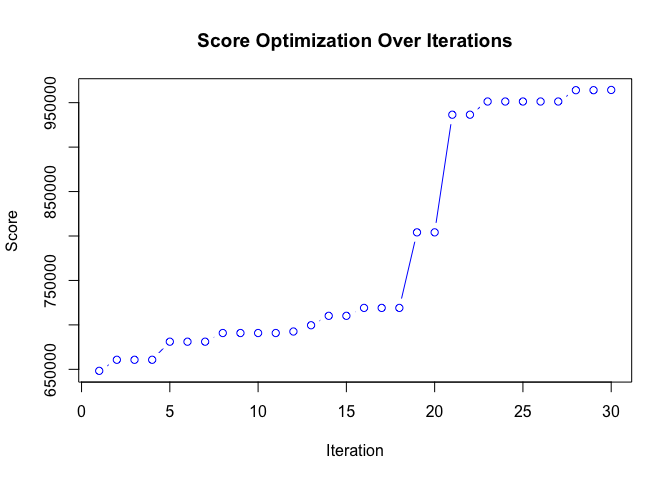
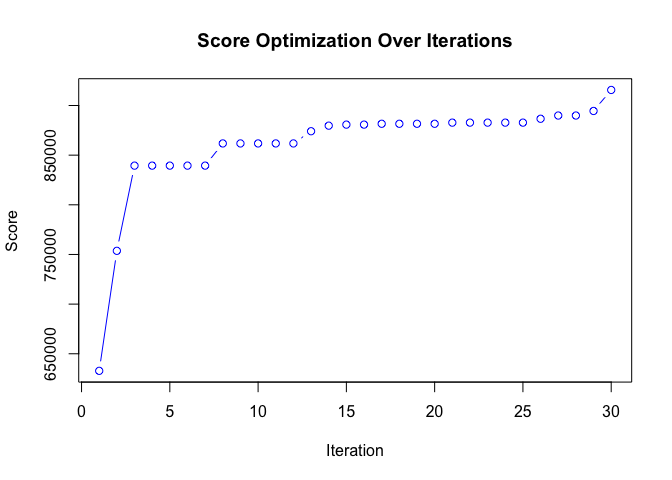
README update

diff --git a/README.md b/README.md
@@ -52,11 +52,35 @@ To install the latest version of the package:
 ``` r
 options(repos = c(CRAN = "https://cloud.r-project.org"))
 install.packages("devtools")
-#> Error in install.packages : Updating loaded packages
+#> 
+#> The downloaded binary packages are in
+#>  /var/folders/j2/0nyw78hx65ld4h4zpmyv3r_40000gn/T//RtmpLOm6qv/downloaded_packages
 library("devtools")
+#> Loading required package: usethis
 devtools::install_github("yunyicheng/TRexDAD", build_vignettes = TRUE)
-#> Skipping install of 'TRexDAD' from a github remote, the SHA1 (4e5b1de4) has not changed since last install.
-#>   Use `force = TRUE` to force installation
+#> Downloading GitHub repo yunyicheng/TRexDAD@HEAD
+#> These packages have more recent versions available.
+#> It is recommended to update all of them.
+#> Which would you like to update?
+#> 
+#> 1: All                               
+#> 2: CRAN packages only                
+#> 3: None                              
+#> 4: rlang     (1.1.1  -> 1.1.2) [CRAN]
+#> 5: lifecycle (1.0.3  -> 1.0.4) [CRAN]
+#> 6: stringi   (1.7.12 -> 1.8.1) [CRAN]
+#> 
+#> ── R CMD build ──────────────────────────────────────────────────────────────────────────────────────────────
+#>      checking for file ‘/private/var/folders/j2/0nyw78hx65ld4h4zpmyv3r_40000gn/T/RtmpLOm6qv/remotesad567db383af/yunyicheng-TRexDAD-5afd3b1/DESCRIPTION’ ...  ✔  checking for file ‘/private/var/folders/j2/0nyw78hx65ld4h4zpmyv3r_40000gn/T/RtmpLOm6qv/remotesad567db383af/yunyicheng-TRexDAD-5afd3b1/DESCRIPTION’
+#>   ─  preparing ‘TRexDAD’:
+#>      checking DESCRIPTION meta-information ...  ✔  checking DESCRIPTION meta-information
+#>   ─  installing the package to build vignettes
+#>      creating vignettes ...  ✔  creating vignettes (6.5s)
+#>   ─  checking for LF line-endings in source and make files and shell scripts
+#>   ─  checking for empty or unneeded directories
+#>   ─  building ‘TRexDAD_0.0.0.9000.tar.gz’
+#>      
+#> 
 library("TRexDAD")
 ```
 
@@ -142,101 +166,99 @@ execute_and_plot()
 #>  [1]   3  26  49  72  95 118 141 164 187 210 233 256 279 302 325 348 371 382
 #> [1] "Initial positions = 3, 26, 49, 72, 95, 118, 141, 164, 187, 210, 233, 256, 279, 302, 325, 348, 371, 382"
 #> [1] "Initial score = 632800"
-#> [1] "Optimized target = 120"
-#> [1] "Modified pos = 3, 26, 49, 72, 95, 120, 141, 164, 187, 210, 233, 256, 279, 302, 325, 348, 371, 382"
-#> [1] "#iteration = 1 , current score = 648300"
-#> [1] "Optimized target = 165"
-#> [1] "Modified pos = 3, 26, 49, 72, 95, 120, 141, 165, 187, 210, 233, 256, 279, 302, 325, 348, 371, 382"
-#> [1] "#iteration = 2 , current score = 660750"
-#> [1] "Optimized target = 120"
-#> [1] "Modified pos = 3, 26, 49, 72, 95, 120, 141, 165, 187, 210, 233, 256, 279, 302, 325, 348, 371, 382"
-#> [1] "#iteration = 3 , current score = 660750"
-#> [1] "Optimized target = 279"
-#> [1] "Modified pos = 3, 26, 49, 72, 95, 120, 141, 165, 187, 210, 233, 256, 279, 302, 325, 348, 371, 382"
-#> [1] "#iteration = 4 , current score = 660750"
-#> [1] "Optimized target = 364"
-#> [1] "Modified pos = 3, 26, 49, 72, 95, 120, 141, 165, 187, 210, 233, 256, 279, 302, 325, 348, 364, 382"
-#> [1] "#iteration = 5 , current score = 681100"
 #> [1] "Optimized target = 49"
-#> [1] "Modified pos = 3, 26, 49, 72, 95, 120, 141, 165, 187, 210, 233, 256, 279, 302, 325, 348, 364, 382"
-#> [1] "#iteration = 6 , current score = 681100"
-#> [1] "Optimized target = 302"
-#> [1] "Modified pos = 3, 26, 49, 72, 95, 120, 141, 165, 187, 210, 233, 256, 279, 302, 325, 348, 364, 382"
-#> [1] "#iteration = 7 , current score = 681100"
-#> [1] "Optimized target = 235"
-#> [1] "Modified pos = 3, 26, 49, 72, 95, 120, 141, 165, 187, 210, 235, 256, 279, 302, 325, 348, 364, 382"
-#> [1] "#iteration = 8 , current score = 690850"
-#> [1] "Optimized target = 325"
-#> [1] "Modified pos = 3, 26, 49, 72, 95, 120, 141, 165, 187, 210, 235, 256, 279, 302, 325, 348, 364, 382"
-#> [1] "#iteration = 9 , current score = 690850"
-#> [1] "Optimized target = 210"
-#> [1] "Modified pos = 3, 26, 49, 72, 95, 120, 141, 165, 187, 210, 235, 256, 279, 302, 325, 348, 364, 382"
-#> [1] "#iteration = 10 , current score = 690850"
-#> [1] "Optimized target = 302"
-#> [1] "Modified pos = 3, 26, 49, 72, 95, 120, 141, 165, 187, 210, 235, 256, 279, 302, 325, 348, 364, 382"
-#> [1] "#iteration = 11 , current score = 690850"
-#> [1] "Optimized target = 346"
-#> [1] "Modified pos = 3, 26, 49, 72, 95, 120, 141, 165, 187, 210, 235, 256, 279, 302, 325, 346, 364, 382"
-#> [1] "#iteration = 12 , current score = 692550"
-#> [1] "Optimized target = 169"
-#> [1] "Modified pos = 3, 26, 49, 72, 95, 120, 141, 169, 187, 210, 235, 256, 279, 302, 325, 346, 364, 382"
-#> [1] "#iteration = 13 , current score = 699600"
-#> [1] "Optimized target = 122"
-#> [1] "Modified pos = 3, 26, 49, 72, 95, 122, 141, 169, 187, 210, 235, 256, 279, 302, 325, 346, 364, 382"
-#> [1] "#iteration = 14 , current score = 710200"
-#> [1] "Optimized target = 302"
-#> [1] "Modified pos = 3, 26, 49, 72, 95, 122, 141, 169, 187, 210, 235, 256, 279, 302, 325, 346, 364, 382"
-#> [1] "#iteration = 15 , current score = 710200"
-#> [1] "Optimized target = 257"
-#> [1] "Modified pos = 3, 26, 49, 72, 95, 122, 141, 169, 187, 210, 235, 257, 279, 302, 325, 346, 364, 382"
-#> [1] "#iteration = 16 , current score = 719100"
-#> [1] "Optimized target = 302"
-#> [1] "Modified pos = 3, 26, 49, 72, 95, 122, 141, 169, 187, 210, 235, 257, 279, 302, 325, 346, 364, 382"
-#> [1] "#iteration = 17 , current score = 719100"
-#> [1] "Optimized target = 346"
-#> [1] "Modified pos = 3, 26, 49, 72, 95, 122, 141, 169, 187, 210, 235, 257, 279, 302, 325, 346, 364, 382"
-#> [1] "#iteration = 18 , current score = 719100"
+#> [1] "Modified pos = 3, 26, 49, 72, 95, 118, 141, 164, 187, 210, 233, 256, 279, 302, 325, 348, 371, 382"
+#> [1] "#iteration = 1 , current score = 632800"
+#> [1] "Optimized target = 140"
+#> [1] "Modified pos = 3, 26, 49, 72, 95, 118, 140, 164, 187, 210, 233, 256, 279, 302, 325, 348, 371, 382"
+#> [1] "#iteration = 2 , current score = 753650"
 #> [1] "Optimized target = 25"
-#> [1] "Modified pos = 3, 25, 49, 72, 95, 122, 141, 169, 187, 210, 235, 257, 279, 302, 325, 346, 364, 382"
-#> [1] "#iteration = 19 , current score = 804100"
-#> [1] "Optimized target = 346"
-#> [1] "Modified pos = 3, 25, 49, 72, 95, 122, 141, 169, 187, 210, 235, 257, 279, 302, 325, 346, 364, 382"
-#> [1] "#iteration = 20 , current score = 804100"
-#> [1] "Optimized target = 148"
-#> [1] "Modified pos = 3, 25, 49, 72, 95, 122, 148, 169, 187, 210, 235, 257, 279, 302, 325, 346, 364, 382"
-#> [1] "#iteration = 21 , current score = 936450"
-#> [1] "Optimized target = 235"
-#> [1] "Modified pos = 3, 25, 49, 72, 95, 122, 148, 169, 187, 210, 235, 257, 279, 302, 325, 346, 364, 382"
-#> [1] "#iteration = 22 , current score = 936450"
-#> [1] "Optimized target = 193"
-#> [1] "Modified pos = 3, 25, 49, 72, 95, 122, 148, 169, 193, 210, 235, 257, 279, 302, 325, 346, 364, 382"
-#> [1] "#iteration = 23 , current score = 951300"
-#> [1] "Optimized target = 257"
-#> [1] "Modified pos = 3, 25, 49, 72, 95, 122, 148, 169, 193, 210, 235, 257, 279, 302, 325, 346, 364, 382"
-#> [1] "#iteration = 24 , current score = 951300"
-#> [1] "Optimized target = 302"
-#> [1] "Modified pos = 3, 25, 49, 72, 95, 122, 148, 169, 193, 210, 235, 257, 279, 302, 325, 346, 364, 382"
-#> [1] "#iteration = 25 , current score = 951300"
-#> [1] "Optimized target = 257"
-#> [1] "Modified pos = 3, 25, 49, 72, 95, 122, 148, 169, 193, 210, 235, 257, 279, 302, 325, 346, 364, 382"
-#> [1] "#iteration = 26 , current score = 951300"
-#> [1] "Optimized target = 364"
-#> [1] "Modified pos = 3, 25, 49, 72, 95, 122, 148, 169, 193, 210, 235, 257, 279, 302, 325, 346, 364, 382"
-#> [1] "#iteration = 27 , current score = 951300"
+#> [1] "Modified pos = 3, 25, 49, 72, 95, 118, 140, 164, 187, 210, 233, 256, 279, 302, 325, 348, 371, 382"
+#> [1] "#iteration = 3 , current score = 839450"
+#> [1] "Optimized target = 140"
+#> [1] "Modified pos = 3, 25, 49, 72, 95, 118, 140, 164, 187, 210, 233, 256, 279, 302, 325, 348, 371, 382"
+#> [1] "#iteration = 4 , current score = 839450"
+#> [1] "Optimized target = 140"
+#> [1] "Modified pos = 3, 25, 49, 72, 95, 118, 140, 164, 187, 210, 233, 256, 279, 302, 325, 348, 371, 382"
+#> [1] "#iteration = 5 , current score = 839450"
+#> [1] "Optimized target = 210"
+#> [1] "Modified pos = 3, 25, 49, 72, 95, 118, 140, 164, 187, 210, 233, 256, 279, 302, 325, 348, 371, 382"
+#> [1] "#iteration = 6 , current score = 839450"
+#> [1] "Optimized target = 140"
+#> [1] "Modified pos = 3, 25, 49, 72, 95, 118, 140, 164, 187, 210, 233, 256, 279, 302, 325, 348, 371, 382"
+#> [1] "#iteration = 7 , current score = 839450"
 #> [1] "Optimized target = 277"
-#> [1] "Modified pos = 3, 25, 49, 72, 95, 122, 148, 169, 193, 210, 235, 257, 277, 302, 325, 346, 364, 382"
-#> [1] "#iteration = 28 , current score = 964050"
-#> [1] "Optimized target = 346"
-#> [1] "Modified pos = 3, 25, 49, 72, 95, 122, 148, 169, 193, 210, 235, 257, 277, 302, 325, 346, 364, 382"
-#> [1] "#iteration = 29 , current score = 964050"
-#> [1] "Optimized target = 190"
-#> [1] "Modified pos = 3, 25, 49, 72, 95, 122, 148, 169, 190, 210, 235, 257, 277, 302, 325, 346, 364, 382"
-#> [1] "#iteration = 30 , current score = 964300"
+#> [1] "Modified pos = 3, 25, 49, 72, 95, 118, 140, 164, 187, 210, 233, 256, 277, 302, 325, 348, 371, 382"
+#> [1] "#iteration = 8 , current score = 861800"
+#> [1] "Optimized target = 233"
+#> [1] "Modified pos = 3, 25, 49, 72, 95, 118, 140, 164, 187, 210, 233, 256, 277, 302, 325, 348, 371, 382"
+#> [1] "#iteration = 9 , current score = 861800"
+#> [1] "Optimized target = 118"
+#> [1] "Modified pos = 3, 25, 49, 72, 95, 118, 140, 164, 187, 210, 233, 256, 277, 302, 325, 348, 371, 382"
+#> [1] "#iteration = 10 , current score = 861800"
+#> [1] "Optimized target = 49"
+#> [1] "Modified pos = 3, 25, 49, 72, 95, 118, 140, 164, 187, 210, 233, 256, 277, 302, 325, 348, 371, 382"
+#> [1] "#iteration = 11 , current score = 861800"
+#> [1] "Optimized target = 140"
+#> [1] "Modified pos = 3, 25, 49, 72, 95, 118, 140, 164, 187, 210, 233, 256, 277, 302, 325, 348, 371, 382"
+#> [1] "#iteration = 12 , current score = 861800"
+#> [1] "Optimized target = 185"
+#> [1] "Modified pos = 3, 25, 49, 72, 95, 118, 140, 164, 185, 210, 233, 256, 277, 302, 325, 348, 371, 382"
+#> [1] "#iteration = 13 , current score = 874100"
+#> [1] "Optimized target = 324"
+#> [1] "Modified pos = 3, 25, 49, 72, 95, 118, 140, 164, 185, 210, 233, 256, 277, 302, 324, 348, 371, 382"
+#> [1] "#iteration = 14 , current score = 879700"
+#> [1] "Optimized target = 143"
+#> [1] "Modified pos = 3, 25, 49, 72, 95, 118, 143, 164, 185, 210, 233, 256, 277, 302, 324, 348, 371, 382"
+#> [1] "#iteration = 15 , current score = 880750"
+#> [1] "Optimized target = 210"
+#> [1] "Modified pos = 3, 25, 49, 72, 95, 118, 143, 164, 185, 210, 233, 256, 277, 302, 324, 348, 371, 382"
+#> [1] "#iteration = 16 , current score = 880750"
+#> [1] "Optimized target = 94"
+#> [1] "Modified pos = 3, 25, 49, 72, 94, 118, 143, 164, 185, 210, 233, 256, 277, 302, 324, 348, 371, 382"
+#> [1] "#iteration = 17 , current score = 881600"
+#> [1] "Optimized target = 277"
+#> [1] "Modified pos = 3, 25, 49, 72, 94, 118, 143, 164, 185, 210, 233, 256, 277, 302, 324, 348, 371, 382"
+#> [1] "#iteration = 18 , current score = 881600"
+#> [1] "Optimized target = 233"
+#> [1] "Modified pos = 3, 25, 49, 72, 94, 118, 143, 164, 185, 210, 233, 256, 277, 302, 324, 348, 371, 382"
+#> [1] "#iteration = 19 , current score = 881600"
+#> [1] "Optimized target = 94"
+#> [1] "Modified pos = 3, 25, 49, 72, 94, 118, 143, 164, 185, 210, 233, 256, 277, 302, 324, 348, 371, 382"
+#> [1] "#iteration = 20 , current score = 881600"
+#> [1] "Optimized target = 121"
+#> [1] "Modified pos = 3, 25, 49, 72, 94, 121, 143, 164, 185, 210, 233, 256, 277, 302, 324, 348, 371, 382"
+#> [1] "#iteration = 21 , current score = 882750"
+#> [1] "Optimized target = 277"
+#> [1] "Modified pos = 3, 25, 49, 72, 94, 121, 143, 164, 185, 210, 233, 256, 277, 302, 324, 348, 371, 382"
+#> [1] "#iteration = 22 , current score = 882750"
+#> [1] "Optimized target = 324"
+#> [1] "Modified pos = 3, 25, 49, 72, 94, 121, 143, 164, 185, 210, 233, 256, 277, 302, 324, 348, 371, 382"
+#> [1] "#iteration = 23 , current score = 882750"
+#> [1] "Optimized target = 324"
+#> [1] "Modified pos = 3, 25, 49, 72, 94, 121, 143, 164, 185, 210, 233, 256, 277, 302, 324, 348, 371, 382"
+#> [1] "#iteration = 24 , current score = 882750"
+#> [1] "Optimized target = 185"
+#> [1] "Modified pos = 3, 25, 49, 72, 94, 121, 143, 164, 185, 210, 233, 256, 277, 302, 324, 348, 371, 382"
+#> [1] "#iteration = 25 , current score = 882750"
+#> [1] "Optimized target = 301"
+#> [1] "Modified pos = 3, 25, 49, 72, 94, 121, 143, 164, 185, 210, 233, 256, 277, 301, 324, 348, 371, 382"
+#> [1] "#iteration = 26 , current score = 886650"
+#> [1] "Optimized target = 168"
+#> [1] "Modified pos = 3, 25, 49, 72, 94, 121, 143, 168, 185, 210, 233, 256, 277, 301, 324, 348, 371, 382"
+#> [1] "#iteration = 27 , current score = 889900"
+#> [1] "Optimized target = 168"
+#> [1] "Modified pos = 3, 25, 49, 72, 94, 121, 143, 168, 185, 210, 233, 256, 277, 301, 324, 348, 371, 382"
+#> [1] "#iteration = 28 , current score = 889900"
+#> [1] "Optimized target = 96"
+#> [1] "Modified pos = 3, 25, 49, 72, 96, 121, 143, 168, 185, 210, 233, 256, 277, 301, 324, 348, 371, 382"
+#> [1] "#iteration = 29 , current score = 894500"
+#> [1] "Optimized target = 364"
+#> [1] "Modified pos = 3, 25, 49, 72, 96, 121, 143, 168, 185, 210, 233, 256, 277, 301, 324, 348, 364, 382"
+#> [1] "#iteration = 30 , current score = 915650"
 ```
 
-<img src="man/figures/README-unnamed-chunk-4-1.png" width="100%" /> It
-would return a graph like: ![Alt
-text](man/figures/README-unnamed-chunk-4-1.png?raw=true "Title")
+<img src="man/figures/README-unnamed-chunk-4-1.png" width="100%" />
 
 ## Contributions
 
